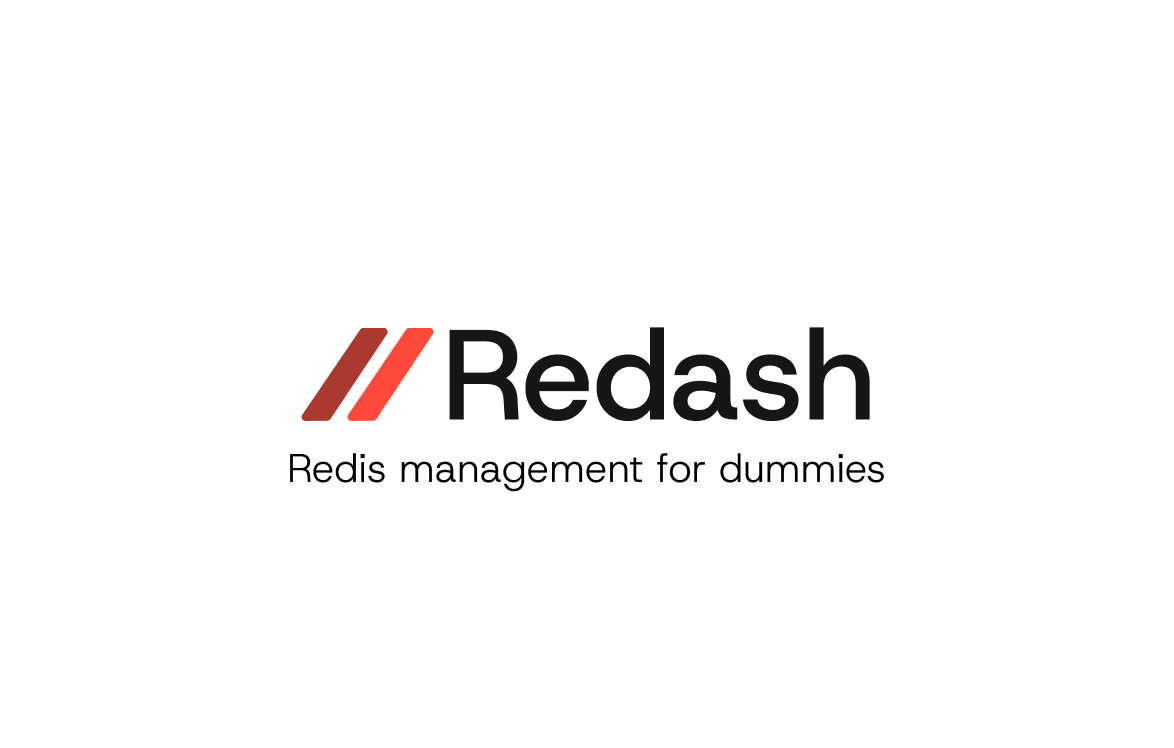
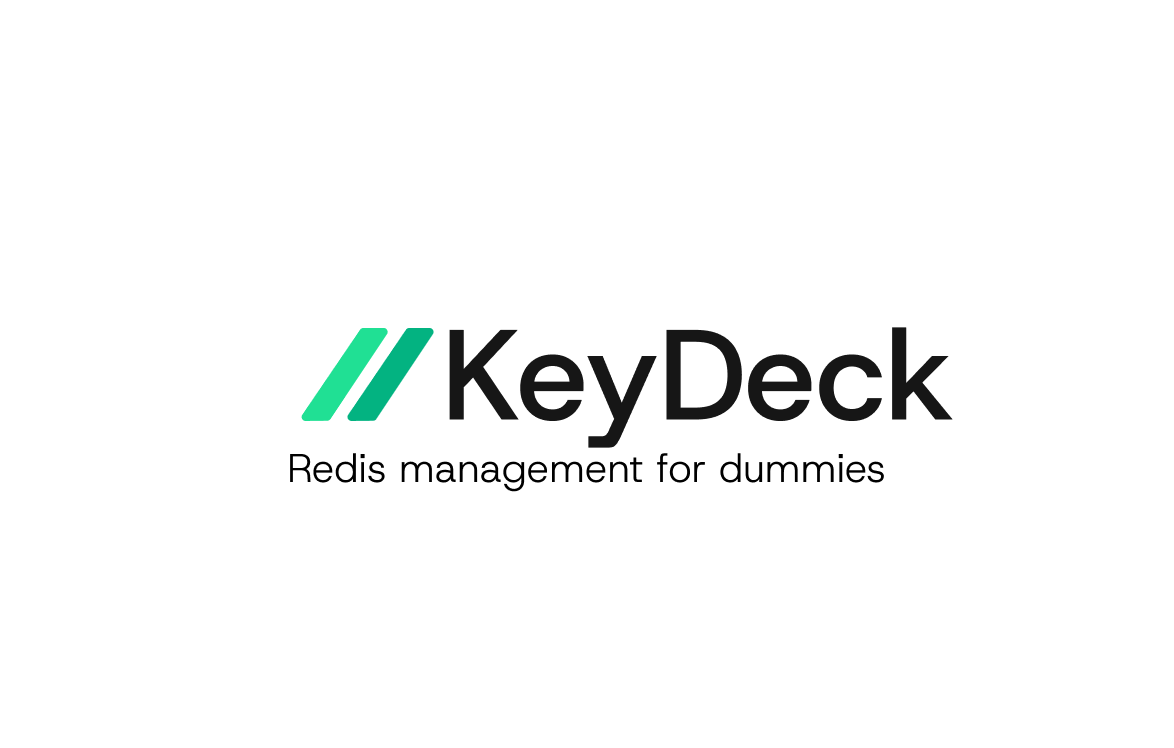
Rename project from Redash to KeyDeck and update related assets
- Changed project name in `docker-compose.yml`, `package.json`, and various UI components to reflect the new branding.
- Updated logos and descriptions in `README.md`, `layout.tsx`, and other components to align with the KeyDeck identity.
- Adjusted database names and API URLs to ensure consistency with the new project name.
- Enhanced loading and error messages to incorporate the new branding, improving user experience.

Changed region(s): [[0.3986, 0.4305, 0.8279, 0.5842], [0.2453, 0.4305, 0.368, 0.5842], [0.4906, 0.5842, 0.5213, 0.615]]

diff --git a/app/page.tsx b/app/page.tsx
@@ -127,19 +127,19 @@ export default function RedisGUI() {
               <div>
                 <Image
                   src="/logo-dark.svg"
-                  alt="Redash"
+                  alt="KeyDeck"
                   width={150}
                   height={100}
                   className="dark:hidden"
                 />
                 <Image
                   src="/logo-white.svg"
-                  alt="Redash"
+                  alt="KeyDeck"
                   width={150}
                   height={100}
                   className="hidden dark:block"
                 />
-                <p className="text-sm text-muted-foreground">Redis management for dummies</p>
+                <p className="text-sm text-muted-foreground">Cache command simplified</p>
               </div>
             </div>
             <div className="flex items-center gap-3">
@@ -191,7 +191,7 @@ export default function RedisGUI() {
                 <div className="text-center space-y-4">
                   <div className="w-12 h-12 border-4 border-primary border-t-transparent rounded-full animate-spin mx-auto"></div>
                   <div className="space-y-2">
-                    <p className="text-lg font-medium">Loading Redash...</p>
+                    <p className="text-lg font-medium">Loading KeyDeck...</p>
                     <p className="text-sm text-muted-foreground">Setting up secure connection options</p>
                   </div>
                 </div>

diff --git a/app/layout.tsx b/app/layout.tsx
@@ -6,14 +6,14 @@ import { ThemeProvider } from '@/components/theme-provider'
 import './globals.css'
 
 export const metadata: Metadata = {
-  title: 'Redash',
-  description: 'Redis management for dummies',
+  title: 'KeyDeck',
+  description: 'Cache command simplified',
   generator: 'Next.js',
   icons: {
     icon: '/favicon.svg',
   },
   openGraph: {
-    title: 'Redash - Redis Management for Dummies',
+    title: 'KeyDeck - Cache command simplified',
     description: 'A modern, intuitive Redis GUI for managing your Redis databases with ease',
     type: 'website',
     images: [
@@ -21,13 +21,13 @@ export const metadata: Metadata = {
         url: '/og_image.png',
         width: 1200,
         height: 630,
-        alt: 'Redash - Redis Management for Dummies',
+        alt: 'KeyDeck - Cache command simplified',
       },
     ],
   },
   twitter: {
     card: 'summary_large_image',
-    title: 'Redash - Redis Management for Dummies',
+    title: 'KeyDeck - Cache command simplified',
     description: 'A modern, intuitive Redis GUI for managing your Redis databases with ease',
     images: ['/logo-dark.svg'],
   },

diff --git a/app/loading.tsx b/app/loading.tsx
@@ -12,19 +12,19 @@ export default function Loading() {
               <div>
                 <Image
                   src="/logo-dark.svg"
-                  alt="Redash"
+                  alt="KeyDeck"
                   width={150}
                   height={100}
                   className="dark:hidden"
                 />
                 <Image
                   src="/logo-white.svg"
-                  alt="Redash"
+                  alt="KeyDeck"
                   width={150}
                   height={100}
                   className="hidden dark:block"
                 />
-                <p className="text-sm text-muted-foreground">Redis management for dummies</p>
+                <p className="text-sm text-muted-foreground">Cache command simplified</p>
               </div>
             </div>
             <div className="flex items-center gap-3">

diff --git a/app/global-error.tsx b/app/global-error.tsx
@@ -56,8 +56,8 @@ export default function GlobalError({ error, reset }: GlobalErrorProps) {
         <div className="min-h-screen bg-background flex items-center justify-center p-4">
           <div className="w-full max-w-2xl">
             <div className="text-center mb-8">
-              <div className="text-2xl font-bold text-foreground mb-2">Redash</div>
-              <p className="text-muted-foreground">Redis management for dummies</p>
+              <div className="text-2xl font-bold text-foreground mb-2">KeyDeck</div>
+              <p className="text-muted-foreground">Cache command simplified</p>
             </div>
 
             <Card className="border-destructive/20">

diff --git a/app/error.tsx b/app/error.tsx
@@ -154,14 +154,14 @@ export default function Error({ error, reset }: ErrorProps) {
         <div className="text-center mb-8">
           <Image
             src="/logo-dark.svg"
-            alt="Redash"
+            alt="KeyDeck"
             width={120}
             height={80}
             className="dark:hidden mx-auto mb-4"
           />
           <Image
             src="/logo-white.svg"
-            alt="Redash"
+            alt="KeyDeck"
             width={120}
             height={80}
             className="hidden dark:block mx-auto mb-4"

diff --git a/app/not-found.tsx b/app/not-found.tsx
@@ -13,14 +13,14 @@ export default function NotFound() {
         <div className="text-center mb-8">
           <Image
             src="/logo-dark.svg"
-            alt="Redash"
+            alt="KeyDeck"
             width={120}
             height={80}
             className="dark:hidden mx-auto mb-4"
           />
           <Image
             src="/logo-white.svg"
-            alt="Redash"
+            alt="KeyDeck"
             width={120}
             height={80}
             className="hidden dark:block mx-auto mb-4"

diff --git a/lib/security-config.ts b/lib/security-config.ts
@@ -25,8 +25,8 @@ export const SECURITY_CONFIG = {
     
     // Add common Vercel patterns
     const vercelPatterns = [
-      'https://redash-peach.vercel.app',
-      'https://redash-peach.vercel.app/',
+      'https://keydeck-peach.vercel.app',
+      'https://keydeck-peach.vercel.app/',
     ]
     
     const appUrlOrigins = process.env.NEXT_PUBLIC_APP_URL ? 

diff --git a/lib/api-client.ts b/lib/api-client.ts
@@ -99,7 +99,7 @@ export function isOriginAllowed(): boolean {
     'http://127.0.0.1:3000',
     'https://localhost:3000',
     'https://127.0.0.1:3000',
-    'https://redash-peach.vercel.app'
+    'https://keydeck-peach.vercel.app'
     // Add your production domain here
     // 'https://yourdomain.com',
   ]

diff --git a/lib/connection-profiles-storage.ts b/lib/connection-profiles-storage.ts
@@ -38,7 +38,7 @@ interface StoredProfile {
   isConnected?: boolean
 }
 
-const DB_NAME = 'RedashConnectionProfiles'
+const DB_NAME = 'KeyDeckConnectionProfiles'
 const DB_VERSION = 1
 const STORE_NAME = 'profiles'
 

diff --git a/README.md b/README.md
@@ -1,10 +1,10 @@
 <div align="center">
 
-![Redash Logo](public/logo-dark.svg#gh-light-mode-only)
-![Redash Logo](public/logo-white.svg#gh-dark-mode-only)
+![KeyDeck Logo](public/logo-dark.svg#gh-light-mode-only)
+![KeyDeck Logo](public/logo-white.svg#gh-dark-mode-only)
 
-# Redash
-### Redis management for dummies
+# KeyDeck
+### Cache command simplified
 
 A modern, web-based Redis management interface built with Next.js and TypeScript. Connect, browse, and manage your Redis instances with ease.
 
